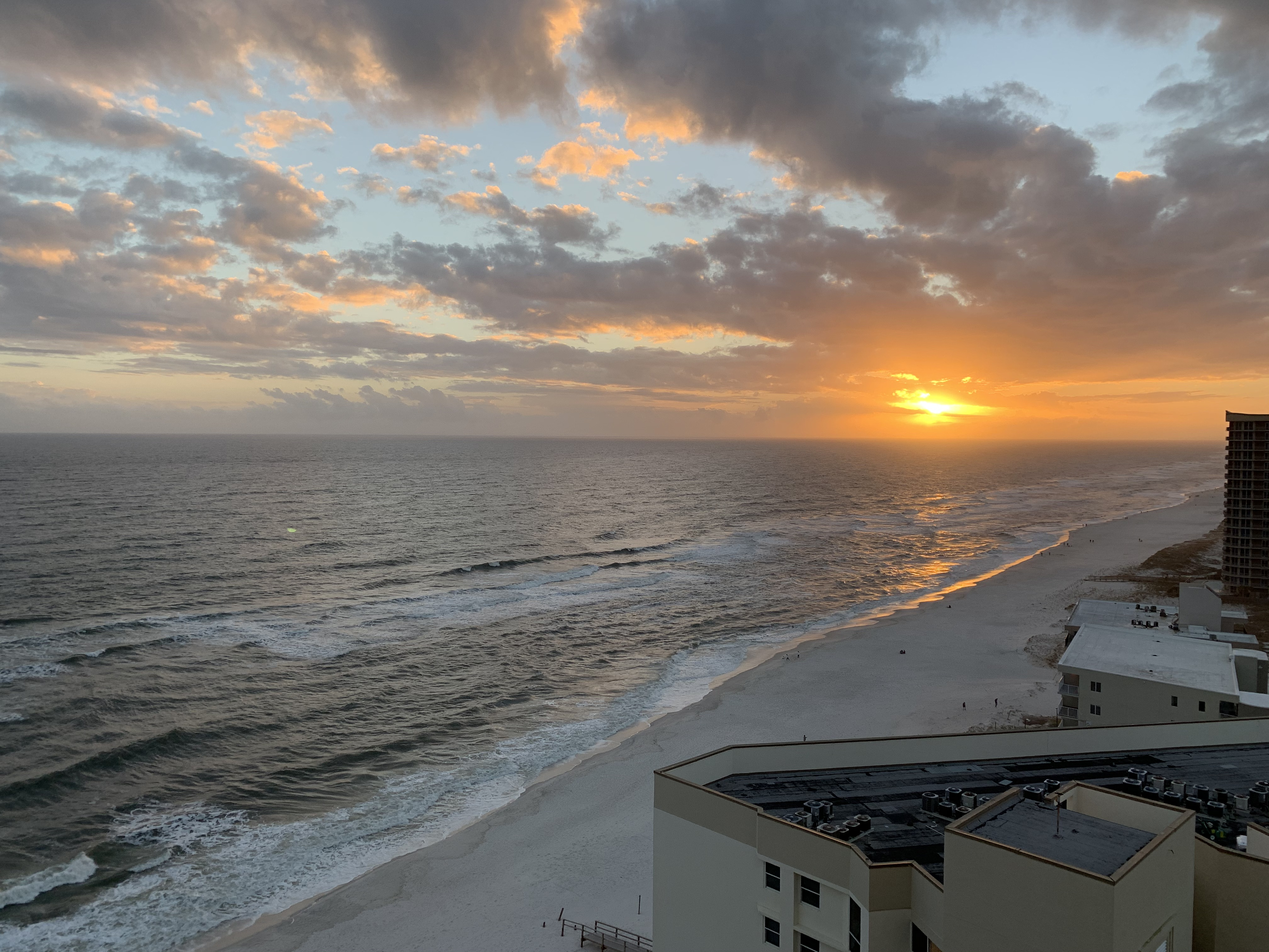
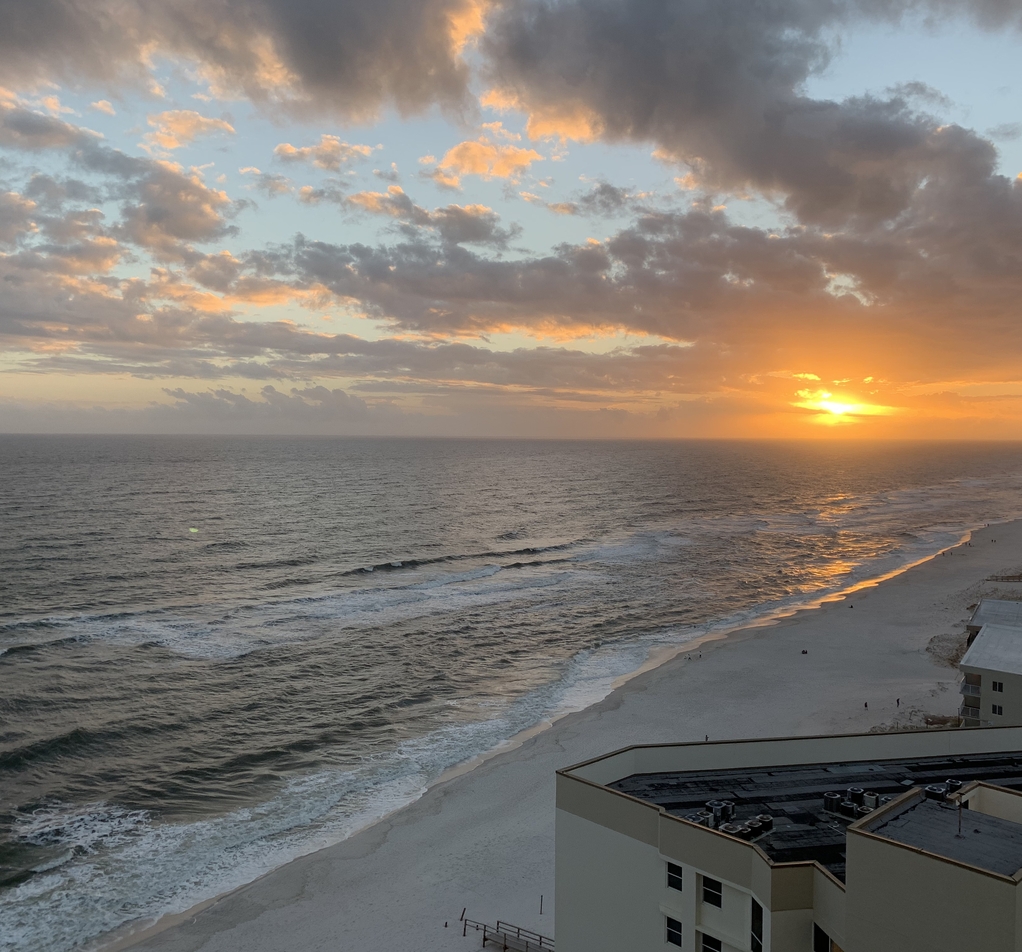
finally done

diff --git a/script.js b/script.js
@@ -15,10 +15,8 @@ fetch("places.json").then(response => response.json())
     .catch(error => console.log("error", error))
 
 
-// a function for generating movie card
+// a function for generating the stuff on the left side
 function displayPlace(place) {
-    // let generatedSection = document.querySelector('.leftsec');
-    // if (parent === generatedSection) parent.innerHTML="";
     document.querySelector("#city").textContent = place.city
     document.querySelector("#state").textContent = place.state
     document.querySelector("#country").textContent = place.country
@@ -32,7 +30,7 @@ function displayPlace(place) {
         document.querySelector("#imgBox").appendChild(imgGenerate);
 }
 
-// button.addEventListener()
+// button.addEventListener() for the places buttons to display the content
 
 document.querySelector(".section-grid-places").addEventListener("click", function (event) {
     let button = event.target.closest("button[data-city]")
@@ -44,71 +42,83 @@ document.querySelector(".section-grid-places").addEventListener("click", functio
     }
 })
 
-// document.querySelector("#showAll").addEventListener("click", function (event) {
-//     let button = event.target.closest("button[data-city]")
-//     let cityName = button.dataset.city
-//     let selectedPlace = places.find(place => place.city === cityName)
+// FILTERS
 
-//     if (selectedPlace) {
-//         displayPlace(selectedPlace)
-//     }
-// })
+let placeButtons = document.querySelectorAll("button[data-city]")
+
+document.querySelector("#showAll").addEventListener("click", function (event) {
+    // make all the place buttons bg color go away before filtering (or in this case, all color)
+       console.log(placeButtons)
+
+       placeButtons.forEach(button => {
+       button.style.backgroundColor = ""
+    })
+})
+
+document.querySelector("#showEastUS").addEventListener("click", function (event) {
+       placeButtons.forEach(button => {
+       button.style.backgroundColor = ""
+       })
+        for (let i = 0; i < places.length; i++) {
+        let place = places[i]
+        if (place.eastorwest === "east" && place.country === "USA") {
+            let placeButton = document.querySelector(`[data-city="${place.city}"]`)
+            if (placeButton){
+            placeButton.style.backgroundColor = "#ff9a81"
+            }
+    }}
+})
+
+document.querySelector("#showWestUS").addEventListener("click", function (event) {
+       placeButtons.forEach(button => {
+       button.style.backgroundColor = ""
+       })
+        for (let i = 0; i < places.length; i++) {
+        let place = places[i]
+        if (place.eastorwest === "west" && place.country === "USA") {
+            let placeButton = document.querySelector(`[data-city="${place.city}"]`)
+            if (placeButton){
+            placeButton.style.backgroundColor = "#ff9a81"
+            }
+    }}
+})
+
+document.querySelector("#showVisitingSoon").addEventListener("click", function (event) {
+       placeButtons.forEach(button => {
+       button.style.backgroundColor = ""
+       })
+        for (let i = 0; i < places.length; i++) {
+        let place = places[i]
+        if (place.visited === "No") {
+            let placeButton = document.querySelector(`[data-city="${place.city}"]`)
+            if (placeButton){
+            placeButton.style.backgroundColor = "#ff9a81"
+            }
+    }}
+})
+
+document.querySelector("#showFavorites").addEventListener("click", function (event) {
+       placeButtons.forEach(button => {
+       button.style.backgroundColor = ""
+       })
+        for (let i = 0; i < places.length; i++) {
+        let place = places[i]
+        if (place.favorite === "Y") {
+            let placeButton = document.querySelector(`[data-city="${place.city}"]`)
+            if (placeButton){
+            placeButton.style.backgroundColor = "#ff9a81"
+            }
+    }}
+})
 
 // // ================================================================================================= //
 
+// GOALS NOTES:
 
-
-// function createGenreFilter(genre) {
-//     document.querySelector(`[data-genre="${genre}"]`).addEventListener("click", function(event) {
-//         let selectedGenreFilter= event.target
-//         let selectedGenre = selectedGenreFilter.getAttribute("data-genre")
-//         let moviesSection = document.querySelector("#movies")
-//         moviesSection.innerHTML = "" // always empty moviesSection before re-generating filtered data
-//         let filters = document.querySelectorAll(".filter")
-//                 }
-            
-//         )}
-//         // remove and set filter element style
-//         styleFilters(filters, selectedGenre)
-//     })
-// }
-// function createRatedFilter(rated) {
-//     document.querySelector(`[data-rated="${rated}"]`).addEventListener("click", function() {
-//     let moviesSection = document.querySelector("#movies")
-//     moviesSection.innerHTML = ""
-//     let filteredMovies = movies.filter(movie => movie.rated.toLowerCase() === rated);
-//     for(let i = 0; i < filteredMovies.length; i++) {
-//         makeMovie(filteredMovies[i])
-//     }
-//     let filters = document.querySelectorAll(".filter")
-//     styleFilters(filters, rated)
-// })
-// }
-
-// createGenreFilter("drama")
-// createGenreFilter("all")
-// createGenreFilter("thriller")
-// createGenreFilter("animation")
-// createGenreFilter("adventure")
-// createGenreFilter("fantasy")
-// createGenreFilter("sci-fi")
-// createGenreFilter("action")
-// createGenreFilter("comedy")
-// createGenreFilter("romance")
-// createRatedFilter("r")
-// createRatedFilter("pg")
-// createRatedFilter("pg-13")
-
-
-
-// // document.querySelector(`[data-city="${city}"]`).addEventListener("click", function(){
-// //     displayPlace(place)
-// // })
-
-// // when user clicks a place, run displayPlace for that specific place
+// // when user clicks a place, run a displayPlace for that specific place
 
 // // js finds the place and displays <img> within #imgBox, city within #city, state within #state, #latitude, #longitude, and #visitReason
 
 // // filter by all, east us, west, us, visiting soon, and favorites
 
-// // filter buttons should relate to an if statement (if this radio input showVisitingSoon is checked, show list items with the No property in Visited)
+// // filter buttons should relate to an if statement (if this radio input showVisitingSoon is checked, highlight list items with the property)

diff --git a/style.css b/style.css
@@ -78,12 +78,12 @@ h3 {
     max-width: 750px;
     height:70dvh;
     margin-bottom: 1rem;
-    object-fit: cover;
     overflow: hidden;
 }
 
 img {
     width: 100%;
+    object-fit: cover;
 }
 
 .icon {
